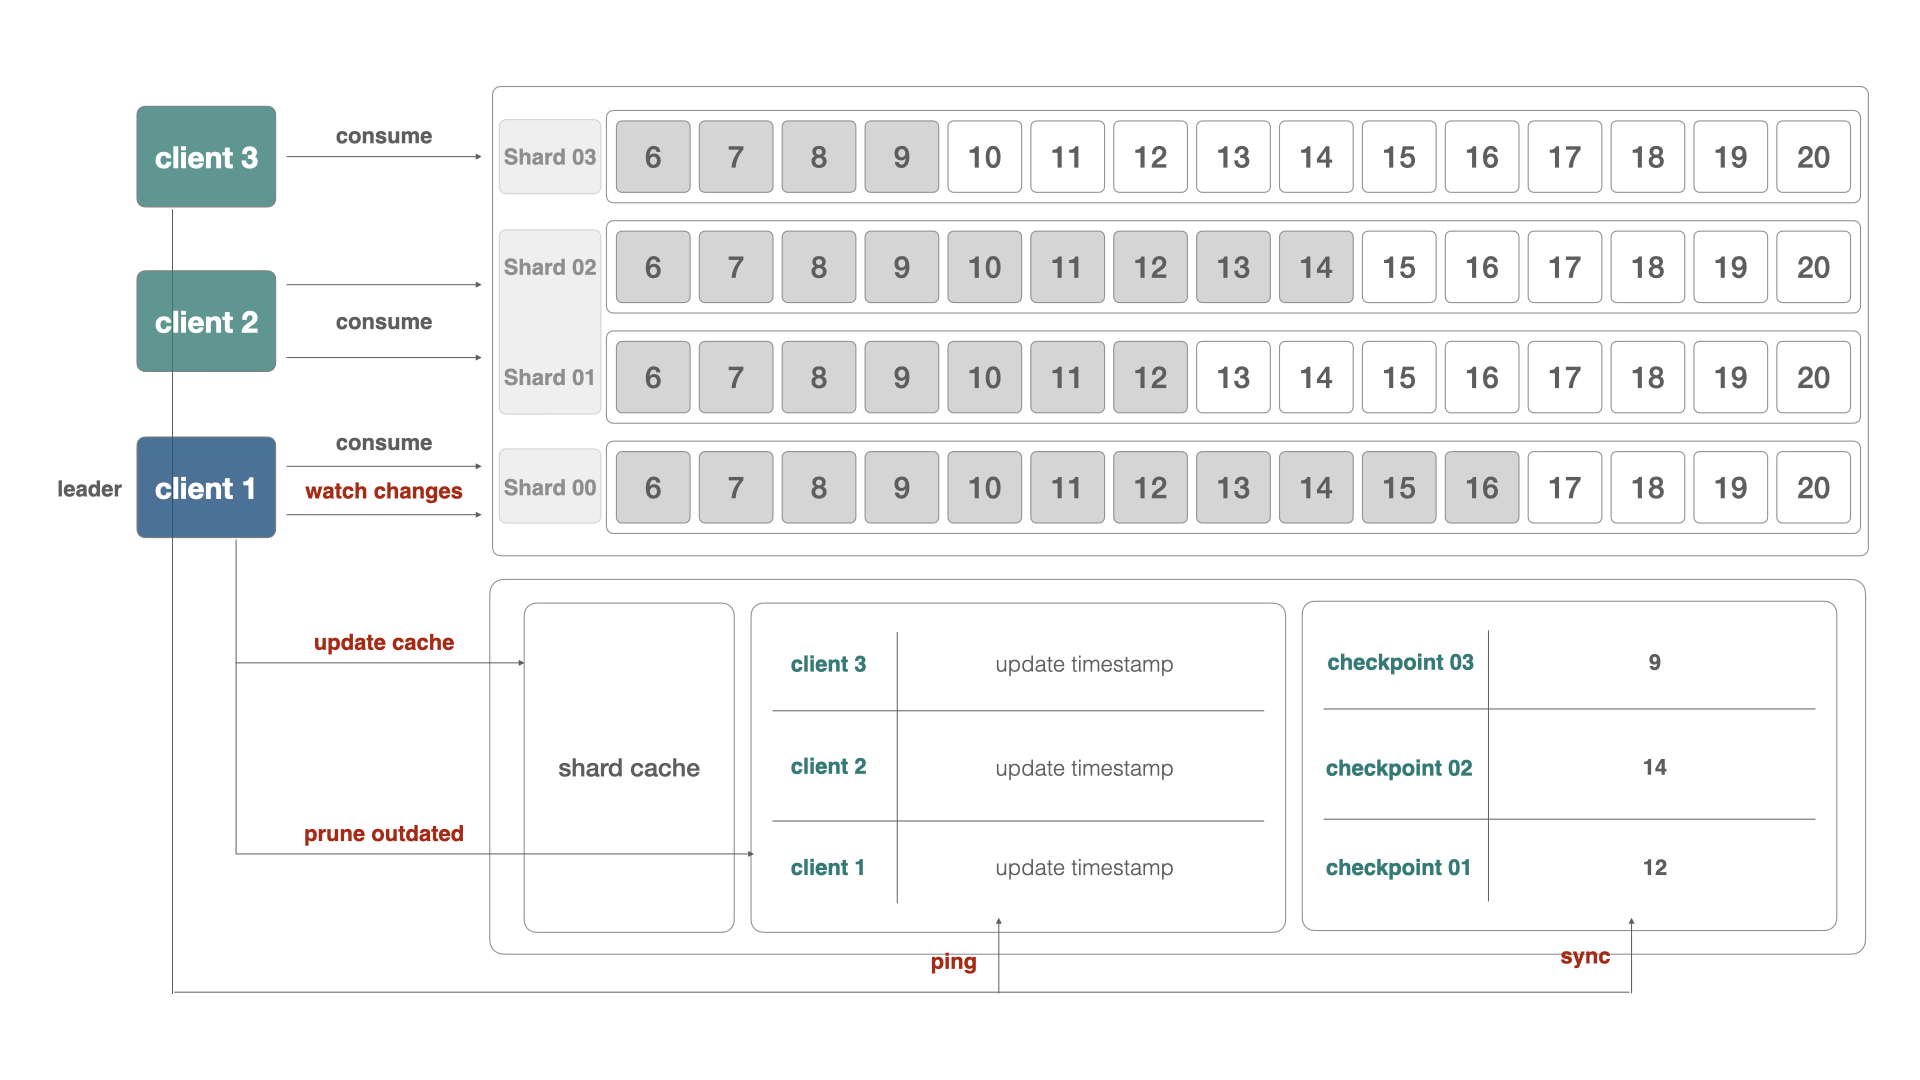
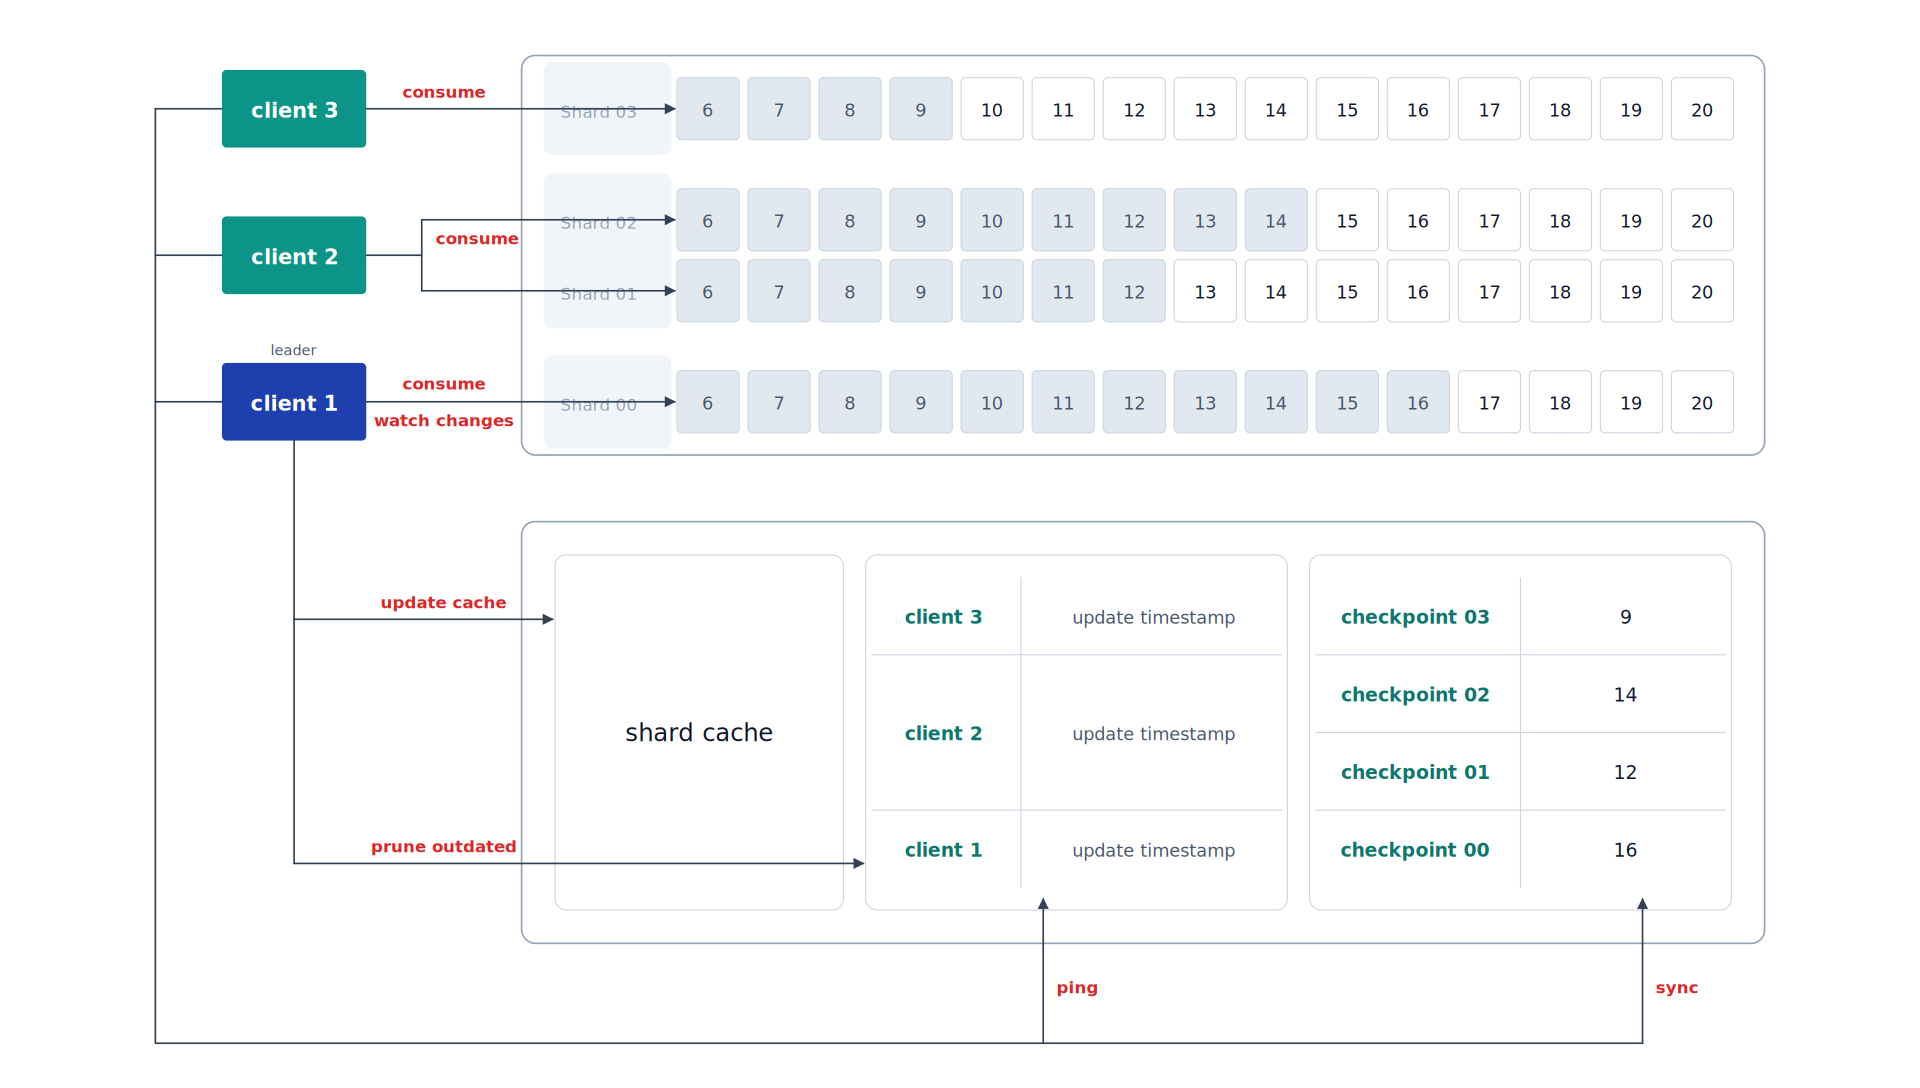
chore: update images

diff --git a/README.md b/README.md
@@ -23,7 +23,6 @@ Kinesumer manages the state of the distributed clients with a database, called "
 ### If your Kinesis stream is in different account
 
 > If you want to connect to Kinesis in a different account, you need to set up the IAM role to access to the target account, and pass the role arn (`kinesumer.Config.RoleARN`) when initialze the Kinesumer client: [Reference](https://docs.aws.amazon.com/kinesisanalytics/latest/java/examples-cross.html).
-> 
 
 ## Usage
 
@@ -91,4 +90,3 @@ Following explains how the Kinesumer works:
 ## License
 
 See [LICENSE](./LICENSE).
-